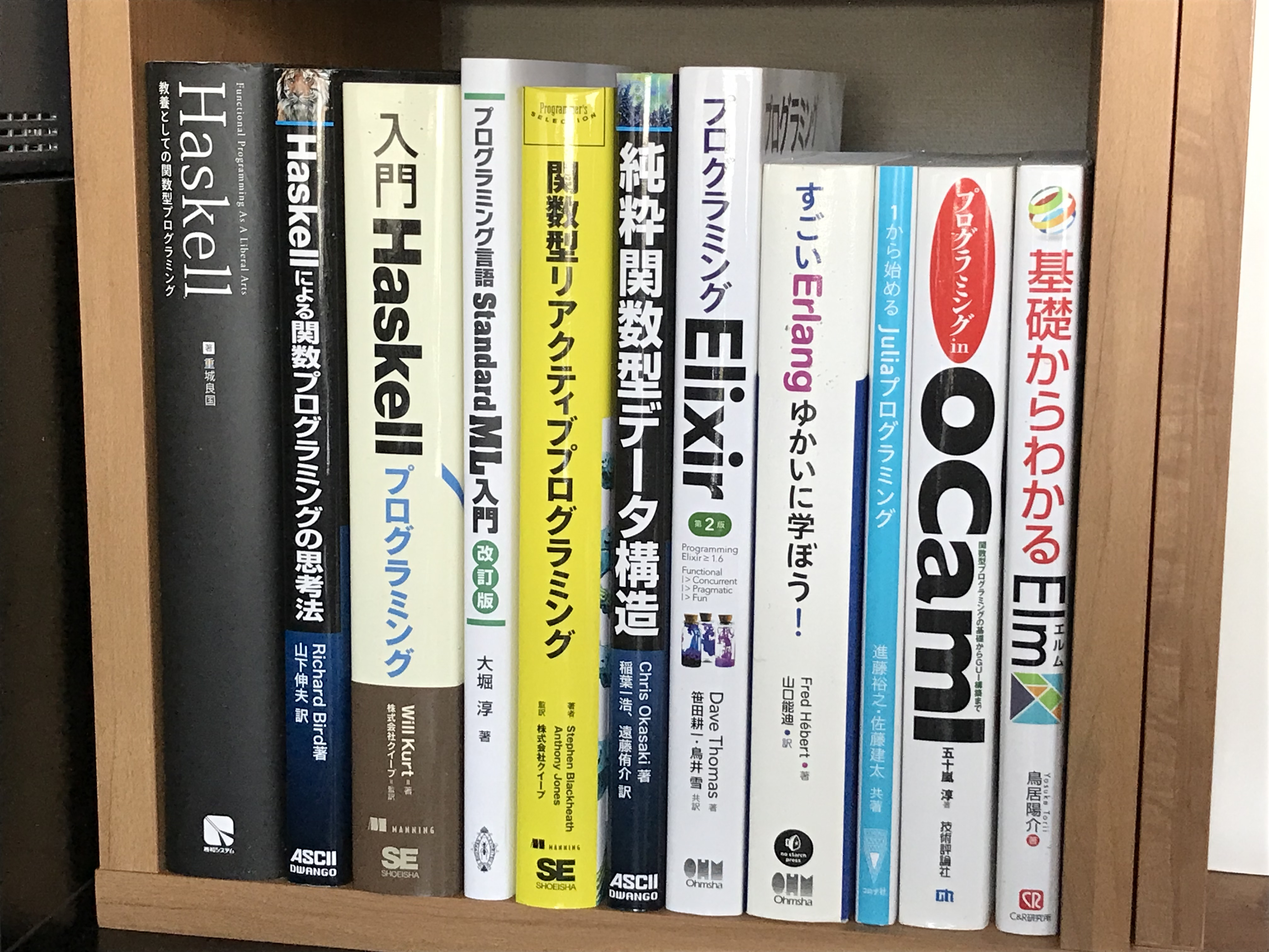
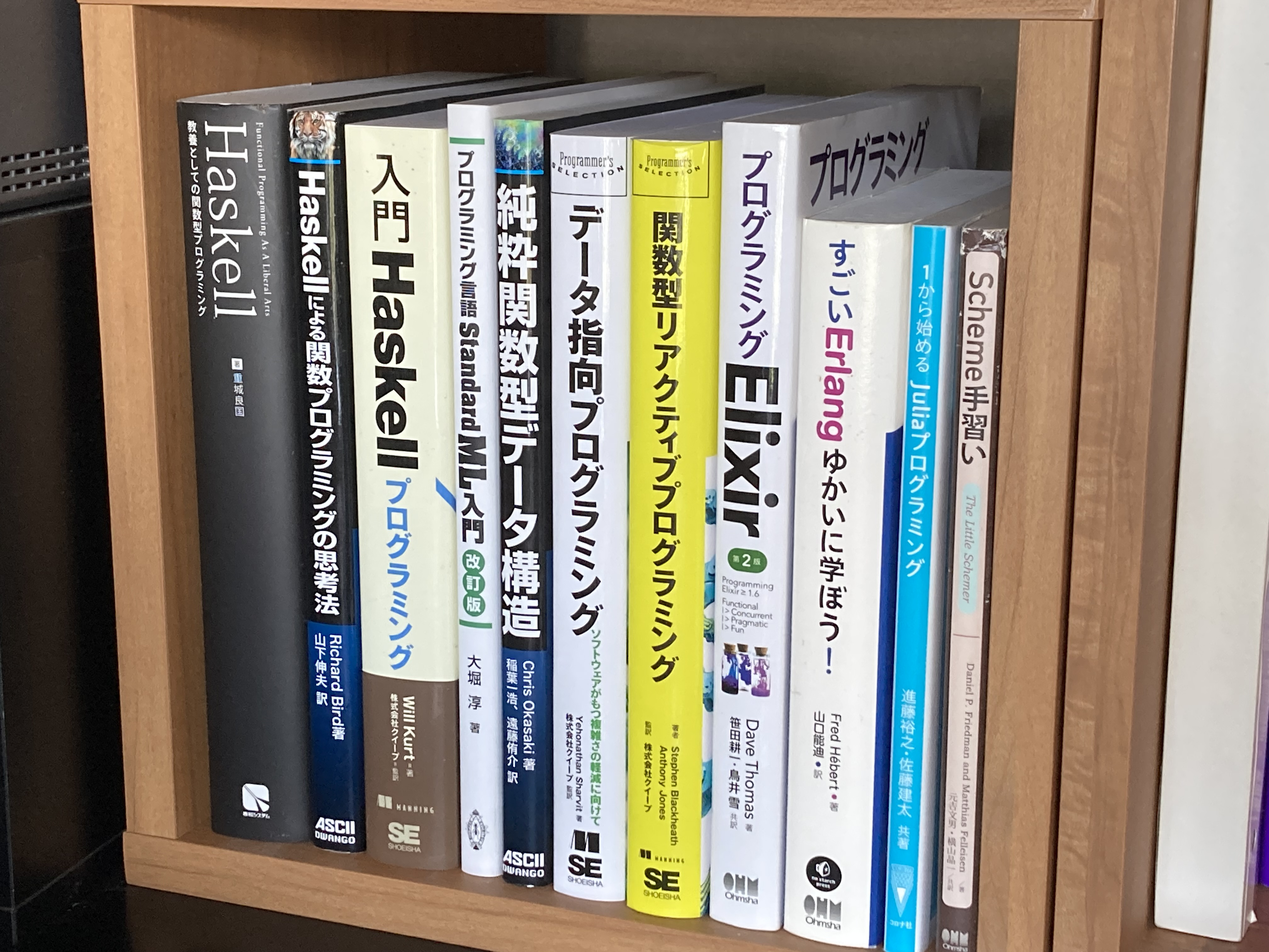
2023/06/19 時点の本棚

diff --git a/README.md b/README.md
@@ -3,20 +3,22 @@
 
 コンパイラ・IDE・OS・VMM・IME の開発のための和書
 
-2023/04/13 更新
+2023/06/19 更新
 
+* 2023/06/19 上段 追加：本棚 4(移動：本棚 10 の中段 1 から), 10(移動：本棚 11 の下段から)
+* 2023/06/19 削除 本棚 11 の上段, その他-2
+* 2023/06/19 上段 更新：本棚 3(移動：本棚 11 の上段から)
+* 2023/06/19 中段 1 更新：本棚 1, 2, 3, 10(移動：本棚 3 の上段と、本棚 11 の下段から)
+* 2023/06/19 中段 2 更新：本棚 2, 6, 12
+* 2023/06/19 中段 更新：本棚 11(移動：本棚 11 の上段と、本棚 11 の下段から)
+* 2023/06/19 中段 1 の上段 更新：本棚 12
+* 2023/06/19 中段 1 の下段 更新：本棚 12
+* 2023/06/19 下段 更新：本棚 11(移動：本棚 11 の中段から)
+* 2023/06/19 下段 1 更新：本棚 12
+* 2023/06/19 その他 更新
 * 2023/04/13 上段 更新：本棚 3
 * 2023/04/13 中段 2 更新：本棚 12
 * 2023/04/13 下段 1 更新：本棚 12
-* 2023/04/01 上段 移動：本棚 3 -> 本棚 12 の中段 1 の上段・下段
-* 2023/04/01 上段 移動：本棚 4 -> 本棚 12 の中段 1 の上段・下段
-* 2023/04/01 上段 更新：本棚 3, 11
-* 2023/04/01 上段 更新：本棚 12 の中段 1 の上段
-* 2023/04/01 上段 削除：本棚 4
-* 2023/04/01 中段 移動：本棚 12 -> 本棚 12 の中段 2
-* 2023/04/01 中段 1 更新：本棚 1, 2
-* 2023/04/01 中段 2 更新：本棚 1, 12 の中段 2
-* 2023/04/01 下段 更新：本棚 12 の中段 1 の下段
 
 以下で公開しているブックマークの「書籍」フォルダを見ていただくと、全部ではないですが、出版社の書籍案内ページがブックマークされています。
 
@@ -73,7 +75,7 @@ https://github.com/tenpoku1000/OPML_bookmarks
 
 ## 本棚 4 の上段
 
-なし
+![本棚 4 の上段](images/4-1.JPG)
 
 ## 本棚 4 の中段 1
 
@@ -169,7 +171,7 @@ https://github.com/tenpoku1000/OPML_bookmarks
 
 ## 本棚 10 の上段
 
-なし
+![本棚 10 の上段](images/10-1.JPG)
 
 ## 本棚 10 の中段 1
 
@@ -185,7 +187,7 @@ https://github.com/tenpoku1000/OPML_bookmarks
 
 ## 本棚 11 の上段
 
-![本棚 11 の上段](images/11-1.JPG)
+なし
 
 ## 本棚 11 の中段
 
@@ -219,16 +221,15 @@ https://github.com/tenpoku1000/OPML_bookmarks
 
 ![本棚 12 の下段 2](images/12-3-2.JPG)
 
-## その他(JIS 規格書)
+## その他(JIS 規格書：写真は、JIS X 3010:2003 プログラム言語C)
 
-1. JIS X 5603:1990 開放型システム間相互接続の抽象構文記法1(ASN.1)仕様  
-2. JIS X 4156:2005 ハイパテキストマーク付け言語(HTML)  
-3. JIS X 4168:2004 段階スタイルシート 水準1(CSS1)  
+1. JIS X 3010:2003 プログラム言語C  
+2. JIS X 0221:2014 国際符号化文字集合(UCS)  
+3. JIS X 5603:1990 開放型システム間相互接続の抽象構文記法1(ASN.1)仕様  
+4. JIS X 4156:2005 ハイパテキストマーク付け言語(HTML)  
+5. JIS X 4168:2004 段階スタイルシート 水準1(CSS1)  
+6. JIS X 3061:2021 JSON データ交換フォーマット
+7. JIS X 6235:2015 DVD-レコーダブルディスク(DVD-R)のボリューム構造及びファイル構造
 
 ![その他-1](images/13-1.JPG)
-
-4. JIS X 3010:2003 プログラム言語C  
-5. JIS X 0221:2014 国際符号化文字集合(UCS)  
-
-![その他-2](images/13-2.JPG)
 
